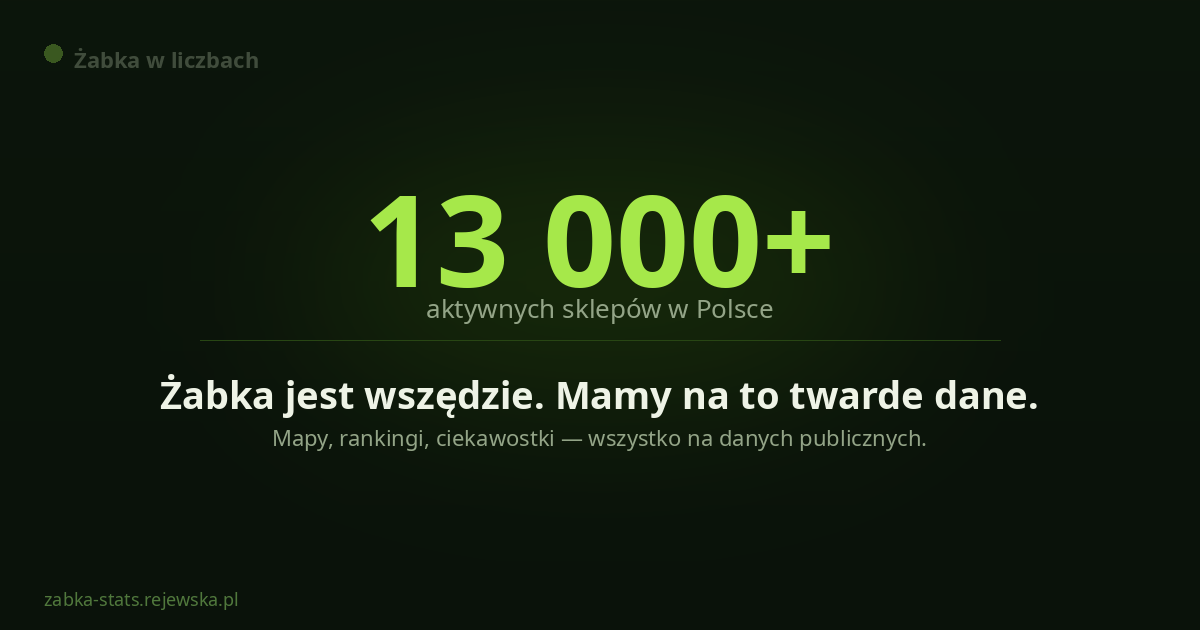
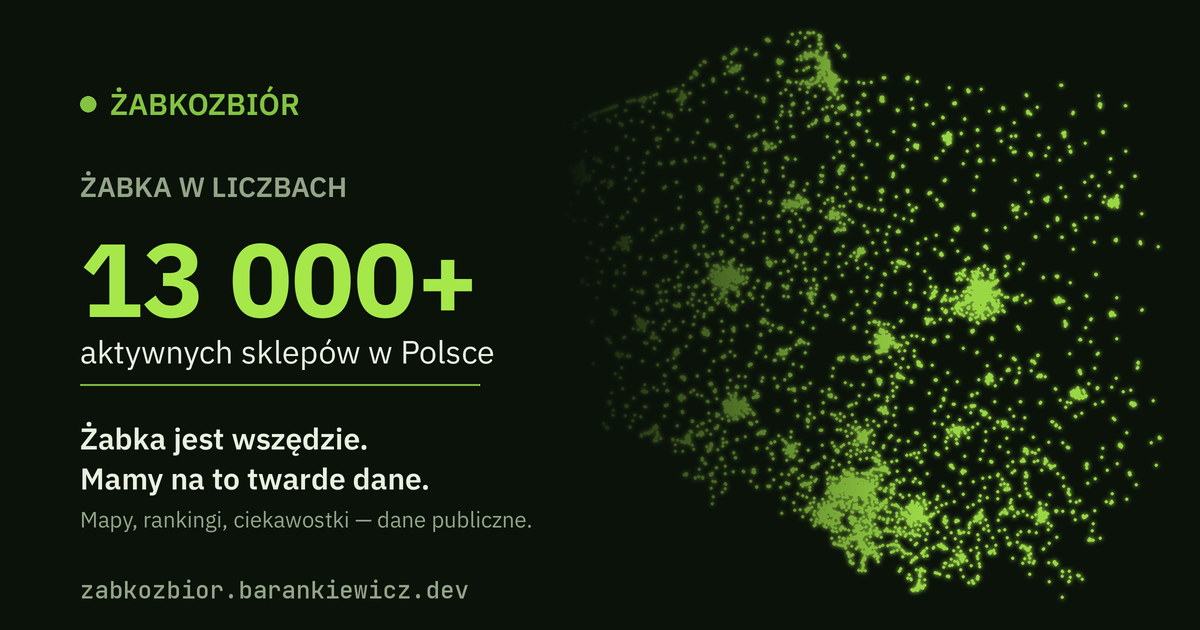
S6: og.png is now a glowing dot map, not just a text card
The old og.png was a plain dark card with one number - not the "glowing
dot map" S6 called for, and its footer watermark still said
zabka-stats.rejewska.pl, a domain retired two migrations ago (every
meta tag in the HTML head already points at zabkozbior.barankiewicz.dev,
just this baked-in image hadn't caught up).

Added data/tools/generate_og_image.py: plots every active store's real
lat/lon from zabka.duckdb as a soft green glow shaped like Poland,
Mercator-correction included so the country isn't squashed, with the
headline number and copy overlaid on a scrim so it stays legible. It's
a one-off build tool, not part of the ETL - rerun by hand when the
brand visuals change.

Left the per-tab OG variant idea (the "later" half of S6) alone since
that was conditional on GoatCounter showing shares splitting by tab,
which hasn't happened.

diff --git a/data/tools/generate_og_image.py b/data/tools/generate_og_image.py
@@ -1,0 +1,184 @@
+"""
+Generates frontend/public/og.png - the homepage social-preview image (S6 of the
+shareability roadmap: "your strongest single visual, the glowing dot map, plus
+ONE number, dark theme so it pops in feeds").
+
+A one-off build tool, not part of the ETL or request path: og.png is a static
+file Vite copies into dist/ as-is (unlike the per-fact /fakt/<slug>/og.png
+cards, which backend/og_image.py renders live per request). Re-run by hand
+whenever the store count or the brand visuals change meaningfully - it does
+not need to track the daily ETL.
+
+Usage: python data/tools/generate_og_image.py
+"""
+
+import math
+import os
+
+import duckdb
+from PIL import Image, ImageDraw, ImageFilter, ImageFont
+
+WIDTH, HEIGHT = 1200, 630
+SS = 2  # supersample factor: draw at 2x, downsample at the end for antialiasing
+
+BG = "#0a120a"
+GREEN = "#84c341"
+GREEN_BRIGHT = "#a6e84a"
+MUTED = "#93a487"
+INK = "#e8f0e0"
+
+DB_PATH = os.environ.get("ZABKA_DB", "data/zabka.duckdb")
+FONTS_DIR = os.path.join(os.path.dirname(__file__), "..", "..", "backend", "assets", "fonts")
+OUT_PATH = os.path.join(os.path.dirname(__file__), "..", "..", "frontend", "public", "og.png")
+
+
+def _font(name: str, size: int, variation: str) -> ImageFont.FreeTypeFont:
+    f = ImageFont.truetype(os.path.join(FONTS_DIR, name), size)
+    f.set_variation_by_name(variation)
+    return f
+
+
+def _hex_to_rgb(h: str) -> tuple:
+    h = h.lstrip("#")
+    return tuple(int(h[i:i + 2], 16) for i in (0, 2, 4))
+
+
+def fetch_points() -> tuple:
+    con = duckdb.connect(DB_PATH, read_only=True)
+    total = con.execute("SELECT count(*) FROM locations WHERE deleted_at IS NULL").fetchone()[0]
+    rows = con.execute(
+        "SELECT latitude, longitude FROM locations WHERE deleted_at IS NULL"
+    ).fetchall()
+    con.close()
+    return total, rows
+
+
+def render_dot_map(points: list, box: tuple) -> Image.Image:
+    """Render a glowing green dot map of the given (lat, lon) points, fit inside
+    `box` = (x0, y0, x1, y1) in 1x canvas coordinates, preserving Poland's real
+    aspect ratio (longitude degrees are compressed by cos(latitude))."""
+    x0, y0, x1, y1 = [v * SS for v in box]
+    box_w, box_h = x1 - x0, y1 - y0
+
+    lats = [p[0] for p in points]
+    lons = [p[1] for p in points]
+    lat_min, lat_max = min(lats), max(lats)
+    lon_min, lon_max = min(lons), max(lons)
+    mean_lat_rad = math.radians((lat_min + lat_max) / 2)
+    lon_correction = math.cos(mean_lat_rad)
+
+    width_units = (lon_max - lon_min) * lon_correction
+    height_units = lat_max - lat_min
+
+    scale_by_height = box_h / height_units
+    scale_by_width = box_w / (width_units if width_units else 1)
+    scale_y = min(scale_by_height, scale_by_width)
+    scale_x = scale_y * lon_correction
+
+    plot_w = (lon_max - lon_min) * scale_x
+    plot_h = (lat_max - lat_min) * scale_y
+    origin_x = x0 + (box_w - plot_w) / 2
+    origin_y = y0 + (box_h - plot_h) / 2
+
+    dots = Image.new("L", (WIDTH * SS, HEIGHT * SS), 0)
+    draw = ImageDraw.Draw(dots)
+    r = 1.5 * SS
+    for lat, lon in points:
+        px = origin_x + (lon - lon_min) * scale_x
+        py = origin_y + (lat_max - lat) * scale_y
+        draw.ellipse((px - r, py - r, px + r, py + r), fill=255)
+
+    glow = dots.filter(ImageFilter.GaussianBlur(radius=2.2 * SS))
+    core = dots.filter(ImageFilter.GaussianBlur(radius=0.4 * SS))
+    from PIL import ImageChops
+    intensity = ImageChops.lighter(
+        Image.eval(glow, lambda v: min(v, 150)),
+        Image.eval(core, lambda v: min(v, 235)),
+    )
+
+    color = _hex_to_rgb(GREEN_BRIGHT)
+    layer = Image.new("RGBA", (WIDTH * SS, HEIGHT * SS), color + (0,))
+    layer.putalpha(intensity)
+    return layer
+
+
+def horizontal_scrim(fade_start: int, fade_end: int) -> Image.Image:
+    """Opaque BG on the left fading to fully transparent by fade_end, so the
+    dot map stays visible on the right while text stays legible on the left."""
+    w, h = WIDTH * SS, HEIGHT * SS
+    fade_start *= SS
+    fade_end *= SS
+    row = []
+    for x in range(w):
+        if x <= fade_start:
+            a = 255
+        elif x >= fade_end:
+            a = 0
+        else:
+            a = int(255 * (1 - (x - fade_start) / (fade_end - fade_start)))
+        row.append(a)
+    alpha = Image.new("L", (w, 1))
+    alpha.putdata(row)
+    alpha = alpha.resize((w, h))
+    scrim = Image.new("RGBA", (w, h), _hex_to_rgb(BG) + (0,))
+    scrim.putalpha(alpha)
+    return scrim
+
+
+def build(total_count: int, points: list) -> Image.Image:
+    img = Image.new("RGBA", (WIDTH * SS, HEIGHT * SS), BG)
+
+    dot_map = render_dot_map(points, box=(560, 20, 1160, 610))
+    img = Image.alpha_composite(img, dot_map)
+    img = Image.alpha_composite(img, horizontal_scrim(fade_start=560, fade_end=920))
+
+    draw = ImageDraw.Draw(img)
+    m = 80 * SS
+
+    brand_font = _font("IBMPlexSans.ttf", 30 * SS, "SemiBold")
+    kicker_font = _font("IBMPlexSans.ttf", 28 * SS, "SemiBold")
+    value_font = _font("IBMPlexSans.ttf", 104 * SS, "Bold")
+    subtitle_font = _font("IBMPlexSans.ttf", 32 * SS, "Regular")
+    headline_font = _font("IBMPlexSans.ttf", 30 * SS, "SemiBold")
+    tagline_font = _font("IBMPlexSans.ttf", 22 * SS, "Regular")
+    footer_font = _font("JetBrainsMono.ttf", 24 * SS, "Medium")
+
+    draw.ellipse((m, 96 * SS, m + 16 * SS, 112 * SS), fill=GREEN)
+    draw.text((m + 30 * SS, 84 * SS), "ŻABKOZBIÓR", font=brand_font, fill=GREEN)
+
+    kicker_y = 168 * SS
+    draw.text((m, kicker_y), "ŻABKA W LICZBACH", font=kicker_font, fill=MUTED)
+
+    value = f"{total_count // 1000} 000+"
+    value_y = kicker_y + 42 * SS
+    draw.text((m, value_y), value, font=value_font, fill=GREEN_BRIGHT)
+    value_bbox = draw.textbbox((m, value_y), value, font=value_font)
+
+    subtitle_y = value_bbox[3] + 12 * SS
+    draw.text((m, subtitle_y), "aktywnych sklepów w Polsce", font=subtitle_font, fill=INK)
+
+    line_y = subtitle_y + 54 * SS
+    draw.line((m, line_y, m + 400 * SS, line_y), fill=(*_hex_to_rgb(GREEN), 90), width=int(2 * SS))
+
+    headline_y = line_y + 34 * SS
+    draw.text((m, headline_y), "Żabka jest wszędzie.", font=headline_font, fill=INK)
+    draw.text((m, headline_y + 40 * SS), "Mamy na to twarde dane.", font=headline_font, fill=INK)
+
+    tagline_y = headline_y + 40 * SS + 46 * SS
+    draw.text((m, tagline_y), "Mapy, rankingi, ciekawostki — dane publiczne.", font=tagline_font, fill=MUTED)
+
+    footer_y = HEIGHT * SS - 56 * SS
+    draw.text((m, footer_y), "zabkozbior.barankiewicz.dev", font=footer_font, fill=MUTED)
+
+    return img.resize((WIDTH, HEIGHT), Image.LANCZOS).convert("RGB")
+
+
+def main():
+    total_count, points = fetch_points()
+    img = build(total_count, points)
+    img.save(OUT_PATH, format="PNG")
+    print(f"Wrote {OUT_PATH} ({total_count} active stores plotted, headline value {total_count // 1000} 000+)")
+
+
+if __name__ == "__main__":
+    main()

diff --git a/CLAUDE.md b/CLAUDE.md
@@ -882,9 +882,12 @@ Card (`summary_large_image`), and JSON-LD structured data. `index.html` carries 
 carries its own `FAQPage` schema mirroring its visible Q&A. `index.html` also links out to
 `faq.html` via a small nav link next to the language switcher (`.nav-faq-link`), and
 `methodology.html`/`faq.html` cross-link each other. The OG image (`/og.png`, 1200x630, dark
-theme) lives in `frontend/public/` and is copied to `dist/` by Vite. `robots.txt` and
-`sitemap.xml` also live in `frontend/public/` (Vite copies both to dist root); `faq.html` is
-listed in the sitemap.
+theme: a glowing dot map of every active store plus the headline store count) lives in
+`frontend/public/` and is copied to `dist/` by Vite. It's a static file, not rendered per
+request - regenerate it by hand with `python data/tools/generate_og_image.py` whenever the
+brand visuals change (it does not need to track the daily ETL; the store count only needs to
+be roughly right). `robots.txt` and `sitemap.xml` also live in `frontend/public/` (Vite
+copies both to dist root); `faq.html` is listed in the sitemap.
 
 **FAQ page (`faq.html`).** PL-only static content (same convention as `methodology.html` -
 no JS, no language toggle). Three sections: basic network facts (count, most/farthest,